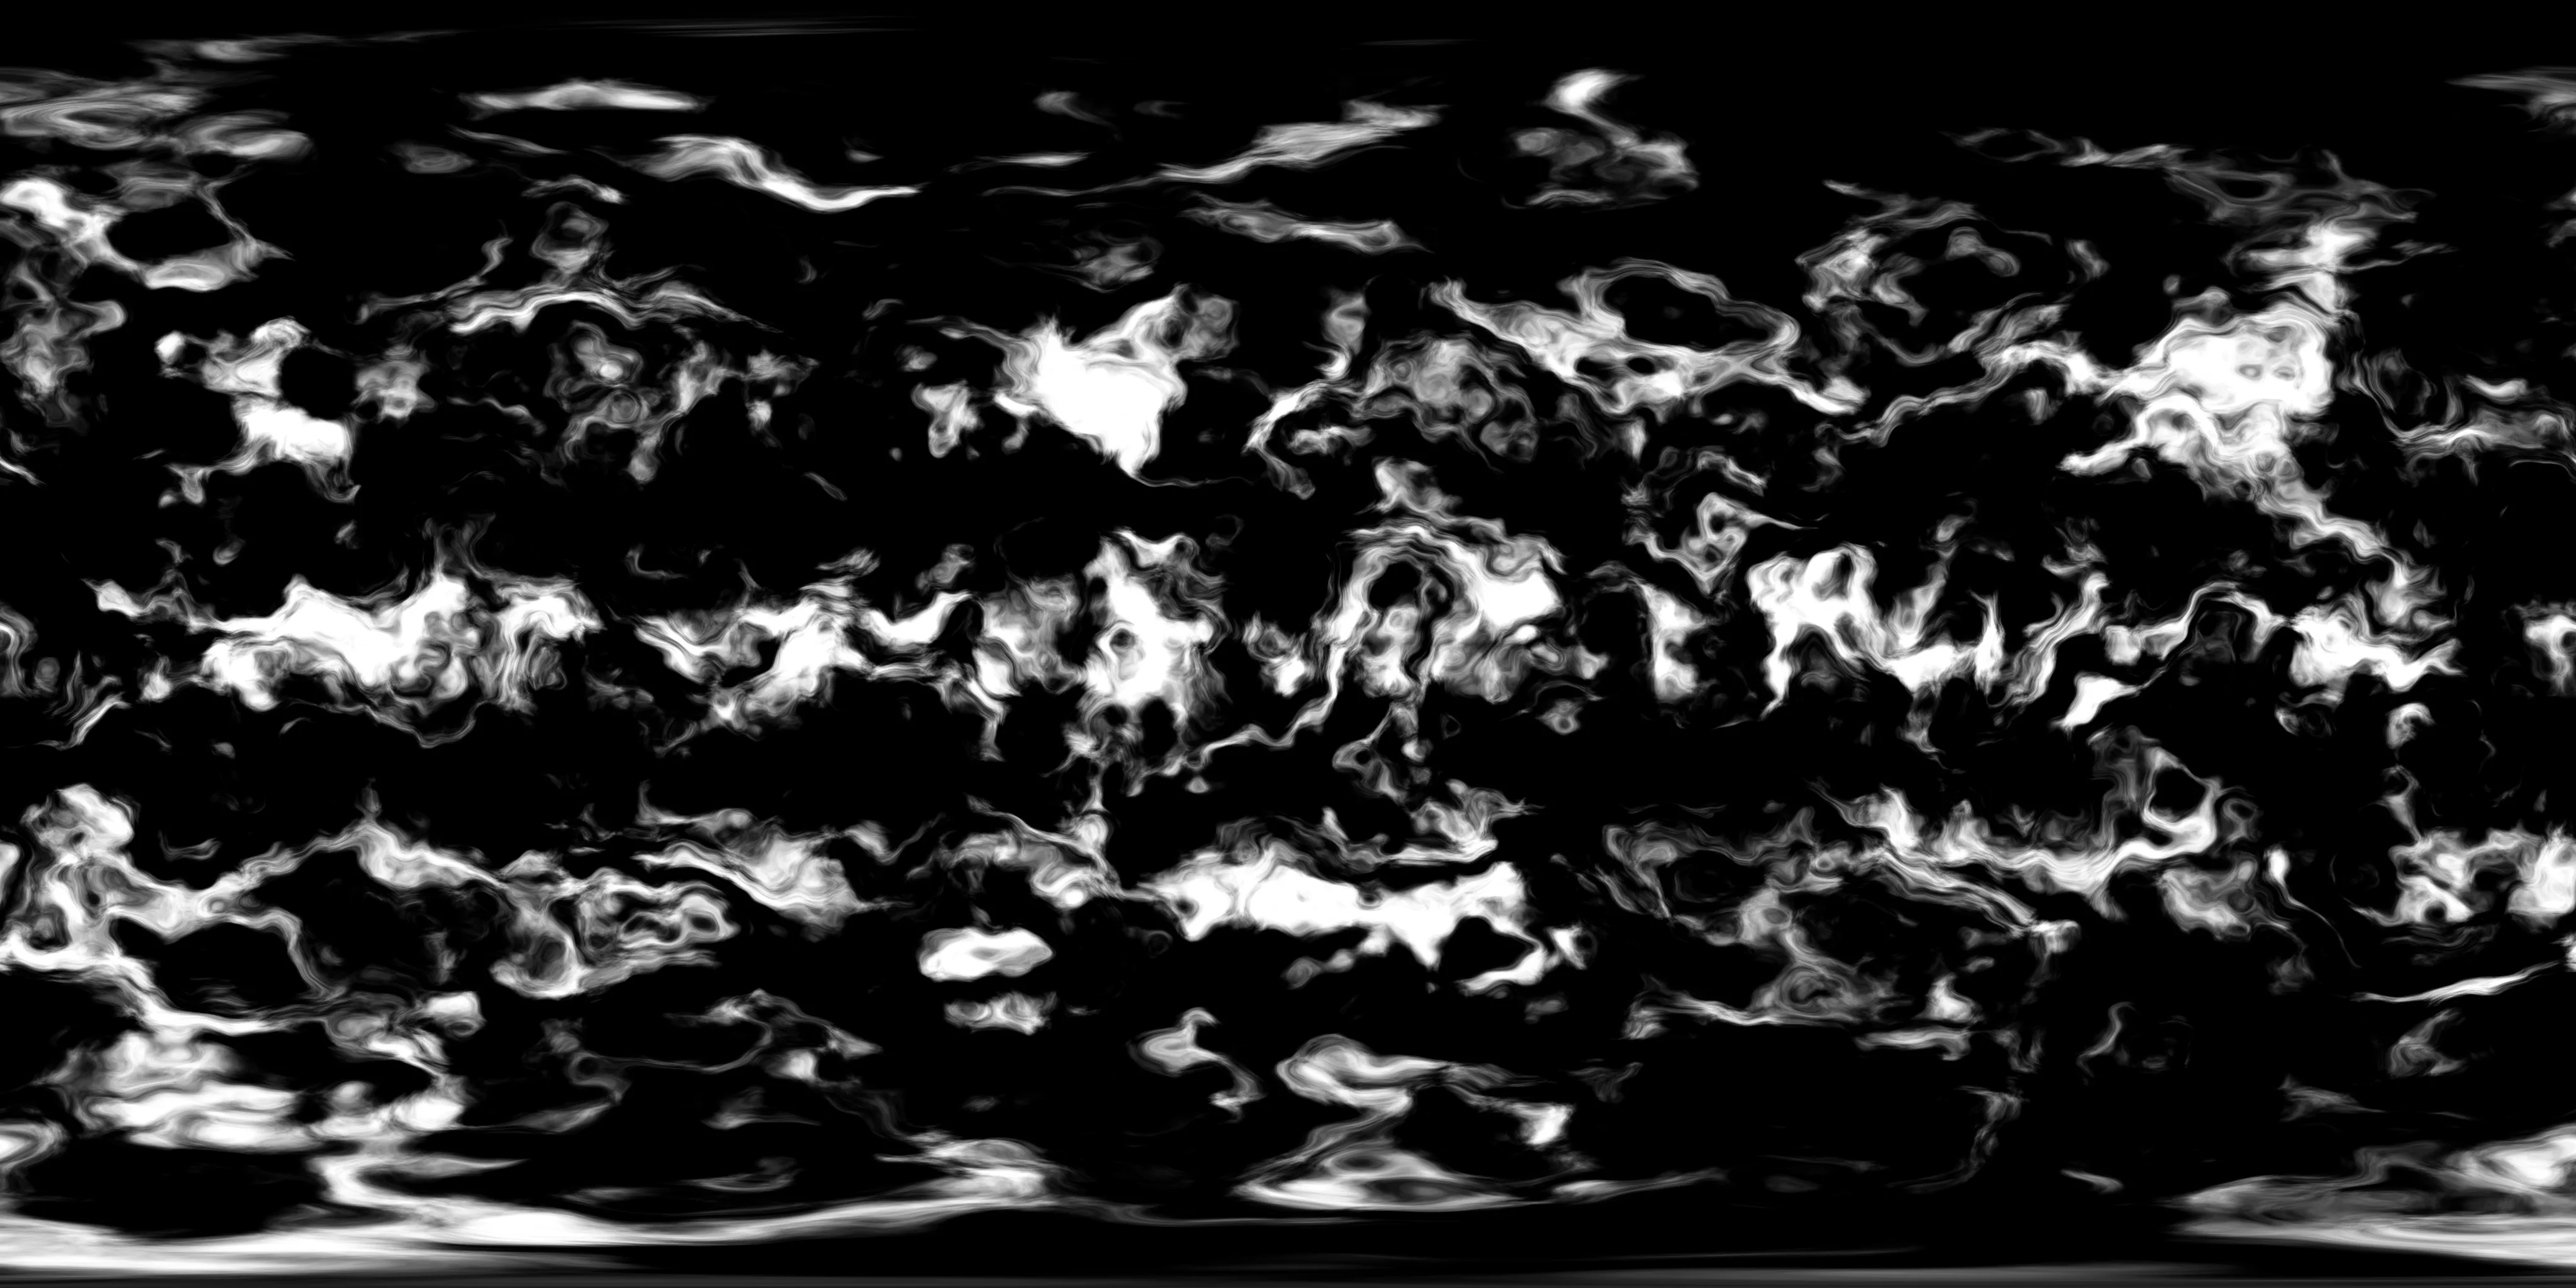
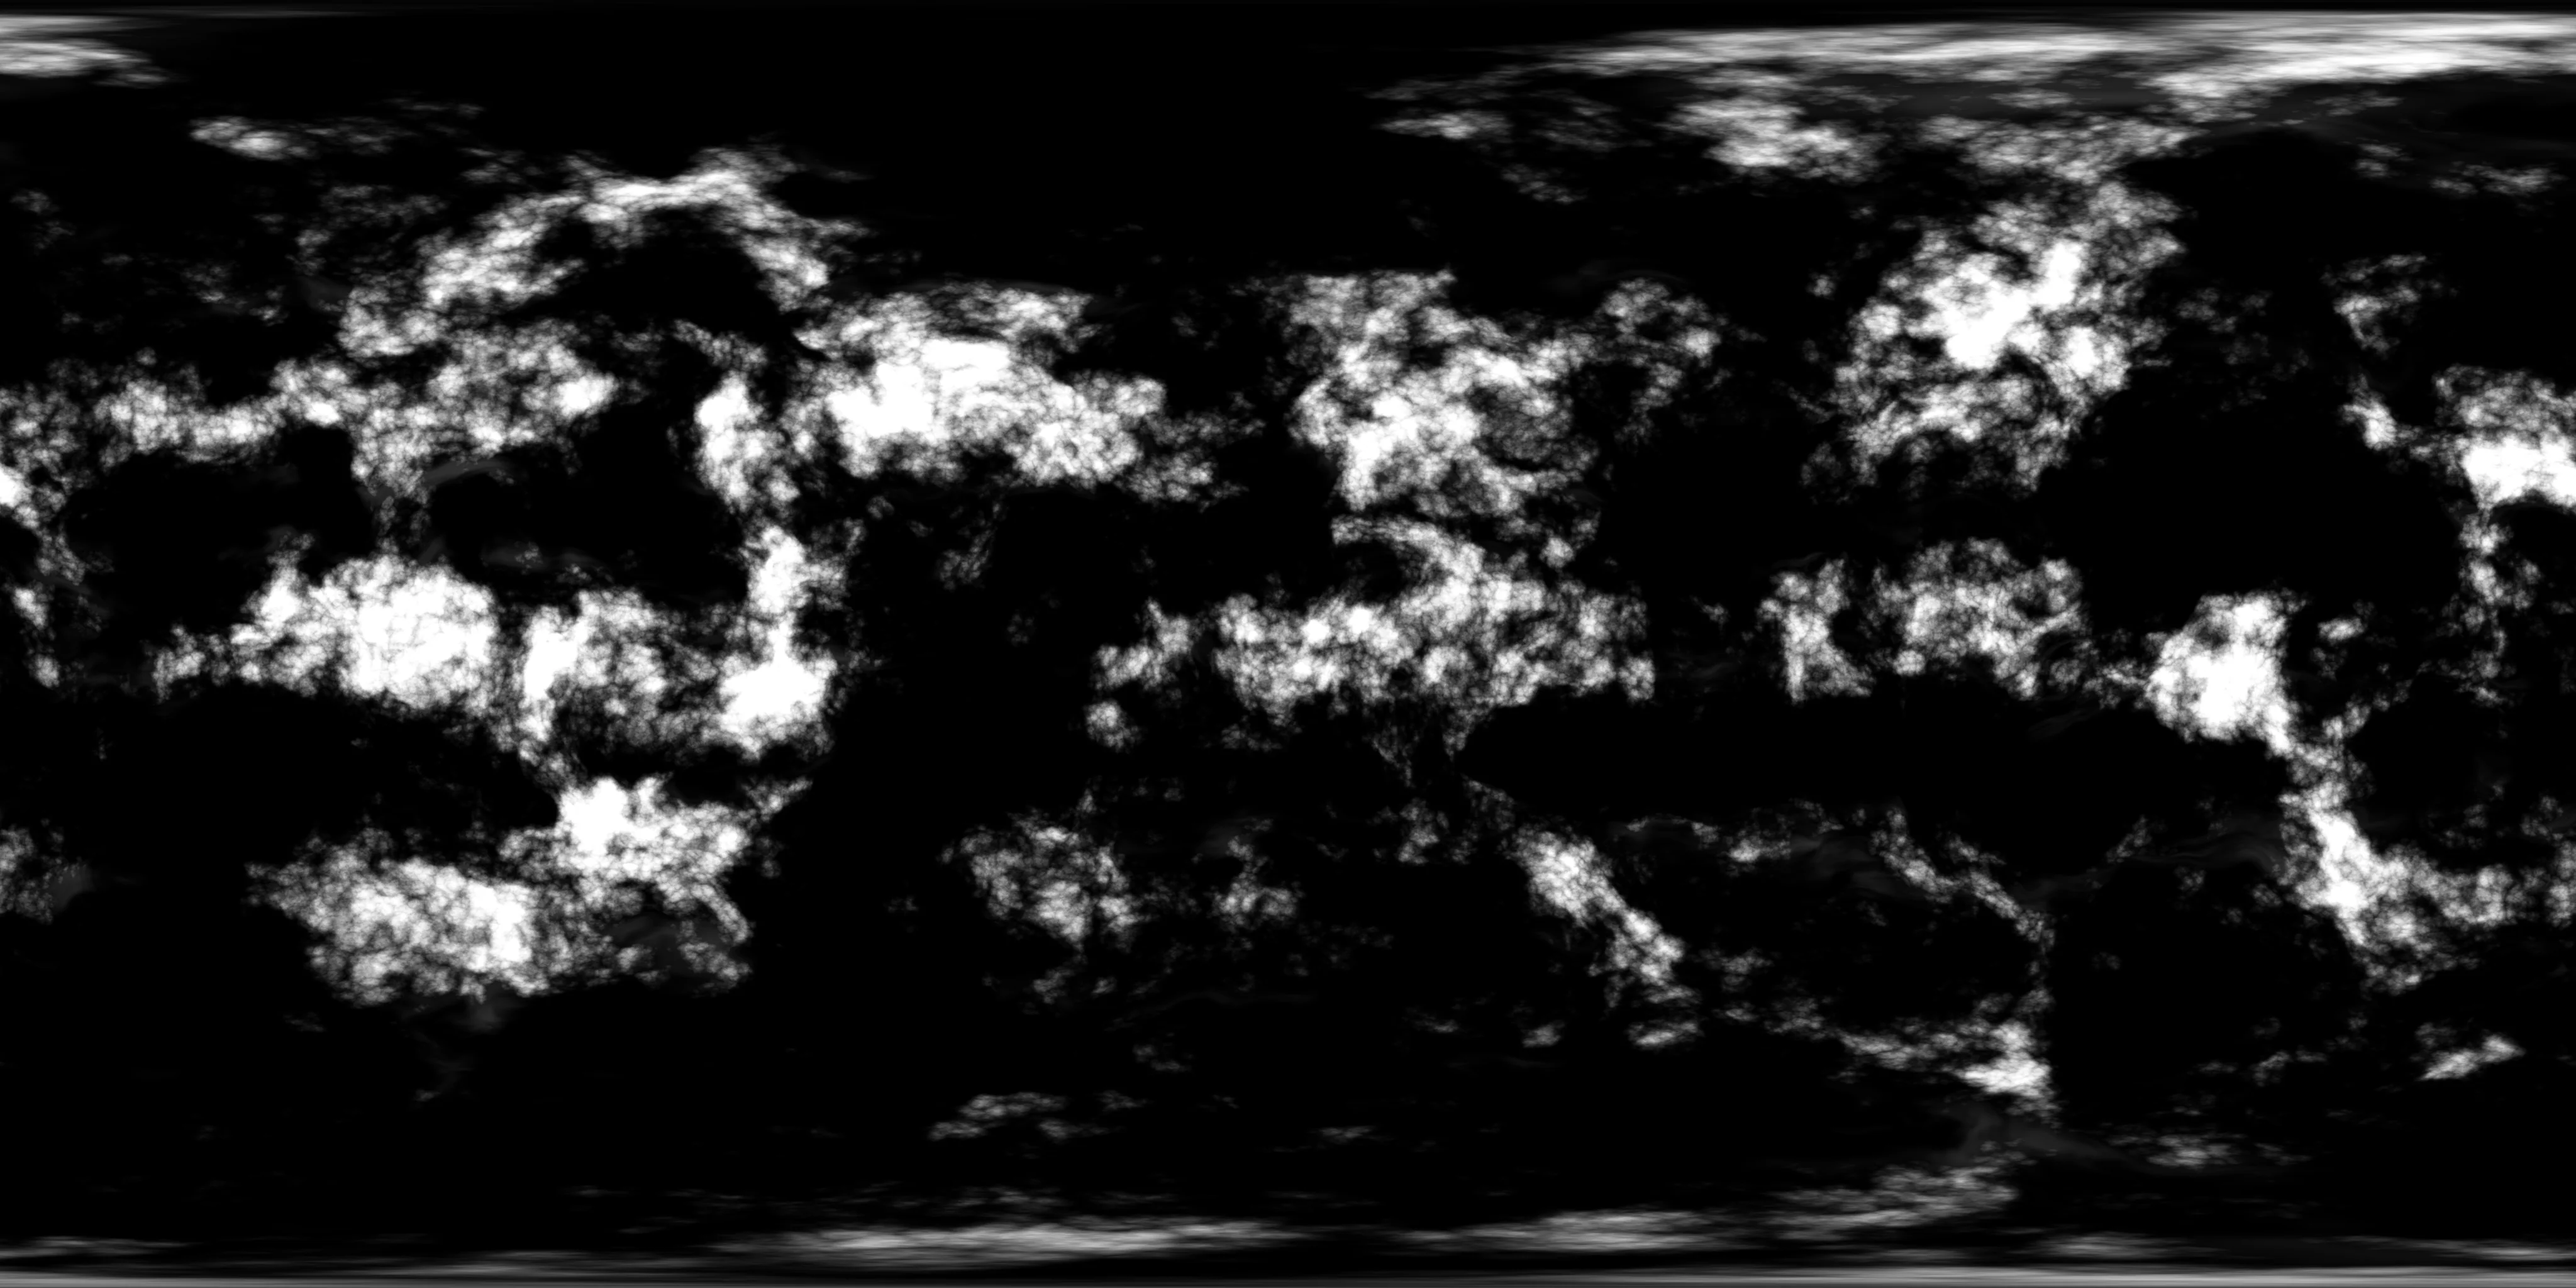
fix(desktop): soft, puffy clouds on the orbital planet
The planet's clouds were smooth, marbled noise pushed through a steep
threshold, so they read as flat white cut-outs with hard edges. They are
now painted as weather systems filled with clusters of rounded cumulus
cells (cellular noise, nudged so the cells run together at mixed sizes),
rising gradually from nothing to thick cloud, with thin veils of cirrus.
The shader uses the painted cover as it is, so the edges and veils are
see-through, and thin cloud takes a little blue from the air beneath it.

tools/planet.py can repaint just the clouds ("clouds" argument).

diff --git a/scene-packs/orbital-station/dist/scene.js b/scene-packs/orbital-station/dist/scene.js
@@ -4543,7 +4543,7 @@ void main() {
   float sphereNdl = dot(sphere, L);
   float daylight = smoothstep(-0.1, 0.3, sphereNdl);
   // Soft shadows of the clouds overhead.
-  float overhead = smoothstep(0.24, 0.74, texture2D(uClouds, vec2(vUv.x + uCloudShift, vUv.y)).r);
+  float overhead = texture2D(uClouds, vec2(vUv.x + uCloudShift, vUv.y)).r;
   float shade = 1.0 - 0.5 * overhead;
   vec3 color = albedo * (0.012 + 1.45 * max(ndl, 0.0) * smoothstep(-0.05, 0.1, sphereNdl) * shade);
   // Warm light along the terminator.
@@ -4578,9 +4578,9 @@ varying vec3 vObject;
 varying vec3 vWorldNormal;
 varying vec3 vWorldPosition;
 void main() {
-  // Firmer edges than the painted cover: clouds, not a veil.
-  float cover = smoothstep(0.24, 0.74, texture2D(uClouds, vUv).r);
-  float alpha = cover * 0.95;
+  // The painted cover as it is: thick cores, and edges and veils you can see the ground through.
+  float cover = texture2D(uClouds, vUv).r;
+  float alpha = cover * 0.92;
   vec3 N = normalize(vWorldNormal);
   float ndl = dot(N, normalize(uSunDirection));
   float lit = smoothstep(-0.12, 0.35, ndl);
@@ -4589,7 +4589,9 @@ void main() {
   float night = 1.0 - smoothstep(-0.22, 0.04, ndl);
   float below = textureLod(uMasks, vec2(vUv.x - uCloudShift, vUv.y), 5.0).g;
   vec3 dark = vec3(0.0012, 0.0015, 0.0025) + vec3(1.0, 0.55, 0.22) * below * night * 0.9;
-  vec3 color = mix(dark, vec3(0.86) * (0.8 + 0.2 * cover), lit);
+  // Thin cloud scatters a little blue from the air under it; thick cloud is bright white on top.
+  vec3 day = mix(vec3(0.62, 0.7, 0.82), vec3(0.9), smoothstep(0.1, 0.8, cover));
+  vec3 color = mix(dark, day, lit);
   color += vec3(1.0, 0.42, 0.18) * smoothstep(0.16, 0.0, abs(ndl)) * 0.35;
   gl_FragColor = vec4(color, alpha);
   #include <tonemapping_fragment>

diff --git a/scene-packs/orbital-station/src/planet.ts b/scene-packs/orbital-station/src/planet.ts
@@ -56,7 +56,7 @@ void main() {
   float sphereNdl = dot(sphere, L);
   float daylight = smoothstep(-0.1, 0.3, sphereNdl);
   // Soft shadows of the clouds overhead.
-  float overhead = smoothstep(0.24, 0.74, texture2D(uClouds, vec2(vUv.x + uCloudShift, vUv.y)).r);
+  float overhead = texture2D(uClouds, vec2(vUv.x + uCloudShift, vUv.y)).r;
   float shade = 1.0 - 0.5 * overhead;
   vec3 color = albedo * (0.012 + 1.45 * max(ndl, 0.0) * smoothstep(-0.05, 0.1, sphereNdl) * shade);
   // Warm light along the terminator.
@@ -93,9 +93,9 @@ varying vec3 vObject;
 varying vec3 vWorldNormal;
 varying vec3 vWorldPosition;
 void main() {
-  // Firmer edges than the painted cover: clouds, not a veil.
-  float cover = smoothstep(0.24, 0.74, texture2D(uClouds, vUv).r);
-  float alpha = cover * 0.95;
+  // The painted cover as it is: thick cores, and edges and veils you can see the ground through.
+  float cover = texture2D(uClouds, vUv).r;
+  float alpha = cover * 0.92;
   vec3 N = normalize(vWorldNormal);
   float ndl = dot(N, normalize(uSunDirection));
   float lit = smoothstep(-0.12, 0.35, ndl);
@@ -104,7 +104,9 @@ void main() {
   float night = 1.0 - smoothstep(-0.22, 0.04, ndl);
   float below = textureLod(uMasks, vec2(vUv.x - uCloudShift, vUv.y), 5.0).g;
   vec3 dark = vec3(0.0012, 0.0015, 0.0025) + vec3(1.0, 0.55, 0.22) * below * night * 0.9;
-  vec3 color = mix(dark, vec3(0.86) * (0.8 + 0.2 * cover), lit);
+  // Thin cloud scatters a little blue from the air under it; thick cloud is bright white on top.
+  vec3 day = mix(vec3(0.62, 0.7, 0.82), vec3(0.9), smoothstep(0.1, 0.8, cover));
+  vec3 color = mix(dark, day, lit);
   color += vec3(1.0, 0.42, 0.18) * smoothstep(0.16, 0.0, abs(ndl)) * 0.35;
   gl_FragColor = vec4(color, alpha);
   #include <tonemapping_fragment>

diff --git a/scene-packs/orbital-station/tools/planet.py b/scene-packs/orbital-station/tools/planet.py
@@ -20,7 +20,9 @@ desert, tundra, rock, snow and ice caps), the sea by depth, with pale shelves
 along the coasts. Cities gather on temperate and tropical coasts and lowlands.
 Clouds form bands and swirls. Everything is seeded.
 
-    py tools/planet.py <assets dir> [width]
+    py tools/planet.py <assets dir> [width] [clouds]
+
+With "clouds" only the cloud map is painted again (it takes a minute, not five).
 """
 import os
 import sys
@@ -30,6 +32,7 @@ from PIL import Image
 
 OUT = sys.argv[1] if len(sys.argv) > 1 else 'assets'
 WIDTH = int(sys.argv[2]) if len(sys.argv) > 2 else 4096
+CLOUDS_ONLY = len(sys.argv) > 3 and sys.argv[3] == 'clouds'
 HEIGHT = WIDTH // 2
 CHUNK = 128
 
@@ -80,6 +83,34 @@ def ridged(p, octaves, offset=0.0):
     return total
 
 
+def billow(p, octaves, offset=0.0):
+    """Rounded lumps with creases between them, in about [0, 0.9]: heaped cloud."""
+    total = np.zeros(len(p), dtype=np.float32)
+    amplitude = 0.5
+    for octave in range(octaves):
+        total += amplitude * np.abs(perlin(p * (2.03 ** octave) + offset + octave * 13.1))
+        amplitude *= 0.5
+    return total
+
+
+def worley(p, frequency, seed):
+    """Distance to the nearest of one random point per cell (in cells), at points p: round cells."""
+    q = p * frequency
+    base = np.floor(q).astype(np.int64)
+    frac = (q - base).astype(np.float32)
+    nearest = np.full(len(p), 9.0, dtype=np.float32)
+    for dx in (-1, 0, 1):
+        for dy in (-1, 0, 1):
+            for dz in (-1, 0, 1):
+                cell = base + np.array([dx, dy, dz])
+                h = (cell[:, 0] * 73856093) ^ (cell[:, 1] * 19349663) ^ (cell[:, 2] * 83492791) ^ seed
+                h = (h ^ (h >> 13)) * 1274126177
+                jitter = np.stack([((h >> shift) & 1023) / 1023.0 for shift in (4, 14, 24)], axis=1).astype(np.float32)
+                offset = np.array([dx, dy, dz], dtype=np.float32) + jitter - frac
+                nearest = np.minimum(nearest, np.einsum('ij,ij->i', offset, offset))
+    return np.sqrt(nearest)
+
+
 def smoothstep(a, b, x):
     t = np.clip((x - a) / (b - a), 0.0, 1.0)
     return t * t * (3.0 - 2.0 * t)
@@ -114,8 +145,56 @@ def terrain(p):
     return height - SEA, rain
 
 
+def cloud_cover(p, latitude):
+    """How much cloud there is, 0..1, at points p: soft, translucent at the edges.
+
+    Weather systems decide where cloud gathers (the tropics, the storm tracks of the middle
+    latitudes, big swirling fronts; the subtropics stay clear); within them the cloud is heaped
+    into clusters and cells of puffs (billowed noise at a few scales, stretched a little along the
+    latitude as the winds do), with thin veils of cirrus drawn out east to west.
+    """
+    # The weather systems swirl; the cloud within them is not smeared by the swirl.
+    swirl = np.stack([fbm(p * 2.2, 4, offset=161.0), fbm(p * 2.2, 4, offset=171.0), fbm(p * 2.2, 4, offset=181.0)], axis=1)
+    q = p + swirl * 0.7
+    weather = fbm(q * 1.8, 5, offset=191.0) + 0.16 * np.exp(-((latitude - 0.06) / 0.09) ** 2)         + 0.12 * np.exp(-((latitude - 0.55) / 0.12) ** 2) - 0.14 * np.exp(-((latitude - 0.3) / 0.08) ** 2)
+    # Clusters of cumulus cells, and the cells within them: rounded puffs.
+    # The cells are nudged by noise so they are irregular, of mixed sizes, and run together.
+    nudge = np.stack([fbm(p * 30.0, 3, offset=241.0), fbm(p * 30.0, 3, offset=251.0), fbm(p * 30.0, 3, offset=261.0)], axis=1)
+    light_warp = p + swirl * 0.08 + nudge * 0.012
+    clusters = 1.0 - smoothstep(0.1, 1.0, worley(light_warp, 14.0, 7))
+    cells = 1.0 - smoothstep(0.0, 1.1, worley(light_warp, 48.0, 11))
+    grain = fbm(p * 160.0, 3, offset=231.0)
+    density = weather + 0.2 * (clusters - 0.45) + 0.12 * (cells - 0.45) + 0.06 * grain + 0.02
+    # A wide, soft rise from nothing to thick cloud: most cloud is somewhere in between.
+    heaped = smoothstep(0.04, 0.5, density) ** 1.5
+    # Thin veils of cirrus drawn out east to west, only where there is weather.
+    veil = p + swirl * 0.2
+    cirrus = smoothstep(0.1, 0.5, fbm(veil * np.array([2.0, 9.0, 2.0], dtype=np.float32), 5, offset=221.0)) * 0.18
+    cirrus *= smoothstep(-0.1, 0.1, weather)
+    return np.clip(np.maximum(heaped, cirrus), 0.0, 1.0)
+
+
+def clouds_only():
+    clouds = np.zeros((HEIGHT, WIDTH), dtype=np.float32)
+    for start in range(0, HEIGHT, CHUNK):
+        rows = np.arange(start, min(start + CHUNK, HEIGHT))
+        p = sphere_points(rows)
+        clouds[rows[0]:rows[-1] + 1] = cloud_cover(p, np.abs(p[:, 1])).reshape(len(rows), WIDTH)
+        print(f'planet: cloud rows {rows[0]}-{rows[-1] + 1}', flush=True)
+    save_clouds(clouds)
+
+
+def save_clouds(clouds):
+    image = np.clip(np.round(clouds * 255), 0, 255).astype(np.uint8)
+    Image.fromarray(image, 'L').save(os.path.join(OUT, 'planet-clouds.webp'), 'WEBP', quality=85, method=6)
+    print('planet-clouds.webp', os.path.getsize(os.path.join(OUT, 'planet-clouds.webp')))
+
+
 def main():
     os.makedirs(OUT, exist_ok=True)
+    if CLOUDS_ONLY:
+        clouds_only()
+        return
     surface = np.zeros((HEIGHT, WIDTH, 4), dtype=np.float32)
     height_map = np.zeros((HEIGHT, WIDTH), dtype=np.float32)
     lights = np.zeros((HEIGHT, WIDTH), dtype=np.float32)
@@ -165,12 +244,7 @@ def main():
         cities = smoothstep(0.02, 0.3, fbm(p * 16.0, 4, offset=131.0)) * smoothstep(-0.15, 0.3, fbm(p * 70.0, 3, offset=141.0))
         towns = smoothstep(0.25, 0.45, fbm(p * 220.0, 2, offset=151.0)) * 0.5
         lights[r0:r1] = (habitable * lowland * region * (cities + towns)).reshape(len(rows), WIDTH).clip(0, 1)
-        # Clouds: bands (the tropics and the storm tracks of the middle latitudes) and swirls.
-        swirl = np.stack([fbm(p * 2.2, 4, offset=161.0), fbm(p * 2.2, 4, offset=171.0), fbm(p * 2.2, 4, offset=181.0)], axis=1)
-        cq = p + swirl * 0.8
-        cq = cq * np.array([1.0, 2.2, 1.0], dtype=np.float32)
-        cover = fbm(cq * 2.4, 8, offset=191.0) + 0.14 * np.exp(-((latitude - 0.05) / 0.08) ** 2) + 0.12 * np.exp(-((latitude - 0.55) / 0.12) ** 2) - 0.1 * np.exp(-((latitude - 0.3) / 0.08) ** 2)
-        clouds[r0:r1] = smoothstep(0.02, 0.38, cover).reshape(len(rows), WIDTH)
+        clouds[r0:r1] = cloud_cover(p, latitude).reshape(len(rows), WIDTH)
         print(f'planet: rows {r0}-{r1}', flush=True)
 
     # Relief: the object-space normal of the height field.
@@ -196,8 +270,8 @@ def main():
     masks = np.stack([surface[..., 3], lights, np.zeros_like(lights)], axis=-1)
     # Lossless: lossy WebP would let the sharp coastlines of the water mask bleed into the lights.
     Image.fromarray(to_bytes(masks), 'RGB').save(os.path.join(OUT, 'planet-masks.webp'), 'WEBP', lossless=True, method=6)
-    Image.fromarray(to_bytes(clouds), 'L').save(os.path.join(OUT, 'planet-clouds.webp'), 'WEBP', quality=85, method=6)
-    for name in ('planet-surface.webp', 'planet-relief.webp', 'planet-masks.webp', 'planet-clouds.webp'):
+    save_clouds(clouds)
+    for name in ('planet-surface.webp', 'planet-relief.webp', 'planet-masks.webp'):
         print(name, os.path.getsize(os.path.join(OUT, name)))
 
 

diff --git a/scene-packs/orbital-station/BUILD.md b/scene-packs/orbital-station/BUILD.md
@@ -22,4 +22,5 @@ The files in `assets/` are generated, reproducibly, and committed:
 
   ```bash
   py tools/planet.py assets 4096
+  py tools/planet.py assets 4096 clouds   # only the clouds, in a couple of minutes
   ```
